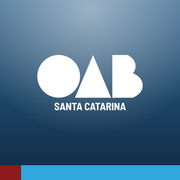
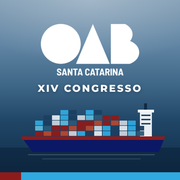
Página Instale o app com QR para o telão e ícone novo do atalho
Claude-Session: https://claude.ai/code/session_01RsrySNkNVJhAU6CzLJX23n

diff --git a/src/app/instalar/page.tsx b/src/app/instalar/page.tsx
@@ -1,29 +1,92 @@
 import Image from "next/image";
-import { Assinatura, Voltar } from "@/components/Marca";
+import QRCode from "qrcode";
+import { Assinatura, MzenTopo, Voltar } from "@/components/Marca";
 import { Instalar } from "./Instalar";
 
 export const metadata = { title: "Instale no celular · XIV Congresso OAB" };
 
-export default function InstalarPage() {
+const SITE = process.env.NEXT_PUBLIC_SITE_URL ?? "https://hub-oab.vercel.app";
+
+const VANTAGENS = [
+  { icone: "⏱", titulo: "Cada painel em 1 minuto", texto: "Resumo com as principais ideias, no mesmo dia." },
+  { icone: "🎬", titulo: "Cortes em vídeo", texto: "Os melhores momentos, prontos para assistir e compartilhar." },
+  { icone: "📸", titulo: "Suas fotos", texto: "Ache as fotos em que você aparece com uma selfie." },
+  { icone: "🔒", titulo: "Leve e seguro", texto: "Sem loja, sem cadastro e quase sem ocupar espaço." },
+];
+
+export default async function InstalarPage() {
+  const endereco = `${SITE}/instalar`;
+  const qr = await QRCode.toString(endereco, { type: "svg", margin: 1, color: { dark: "#0f2a44", light: "#ffffff" } });
+
   return (
     <main>
-      <header className="ceu-mar px-4 pt-6 pb-36 md:pb-10">
-        <div className="mx-auto max-w-xl">
+      <header className="ceu-mar px-4 pt-6 pb-10">
+        <div className="relative mx-auto max-w-5xl">
+          <MzenTopo />
           <Voltar />
           <div className="mt-5">
             <Assinatura />
           </div>
-          <div className="mt-8 flex items-center gap-4">
-            <Image src="/icone-192.png" alt="" width={72} height={72} className="rounded-2xl shadow-lg" />
+          <div className="mt-8 flex items-center gap-4 sm:gap-6">
+            <Image
+              src="/icone-512.png"
+              alt="Ícone do app"
+              width={96}
+              height={96}
+              className="h-20 w-20 rounded-[22%] shadow-xl sm:h-24 sm:w-24"
+              priority
+            />
             <div>
-              <h1 className="text-2xl leading-tight font-extrabold text-navy">Leve o congresso no celular</h1>
-              <p className="text-sm font-semibold text-navy/80">Sem loja, sem cadastro, em 30 segundos.</p>
+              <p className="text-xs font-extrabold tracking-[0.2em] text-wine uppercase">App do congresso</p>
+              <h1 className="text-2xl leading-tight font-extrabold text-navy sm:text-4xl">Leve o congresso no celular</h1>
+              <p className="mt-1 text-sm font-semibold text-navy/80 sm:text-base">
+                Sem loja, sem cadastro, em 30 segundos.
+              </p>
             </div>
           </div>
         </div>
       </header>
-      <div className="mx-auto max-w-xl px-4 py-8">
-        <Instalar />
+
+      <div className="mx-auto grid max-w-5xl gap-8 px-4 py-8 md:grid-cols-[1fr_300px]">
+        <div className="space-y-8">
+          <section>
+            <h2 className="text-sm font-extrabold tracking-[0.15em] text-navy uppercase">O que tem no app</h2>
+            <ul className="mt-4 grid gap-3 sm:grid-cols-2">
+              {VANTAGENS.map((v) => (
+                <li key={v.titulo} className="flex gap-3 rounded-2xl border border-line bg-card p-4">
+                  <span className="text-2xl leading-none">{v.icone}</span>
+                  <span>
+                    <strong className="block text-navy">{v.titulo}</strong>
+                    <span className="text-sm text-muted">{v.texto}</span>
+                  </span>
+                </li>
+              ))}
+            </ul>
+          </section>
+
+          <section>
+            <h2 className="text-sm font-extrabold tracking-[0.15em] text-navy uppercase">Como instalar</h2>
+            <div className="mt-4">
+              <Instalar />
+            </div>
+          </section>
+        </div>
+
+        {/* Para quem abre no computador ou vê a página no telão: aponta a câmera e abre no celular. */}
+        <aside className="hidden md:block">
+          <div className="sticky top-6 rounded-3xl bg-navy p-6 text-center text-white shadow-xl">
+            <p className="text-lg leading-tight font-extrabold">Aponte a câmera do celular</p>
+            <div
+              className="mx-auto mt-4 w-full rounded-2xl bg-white p-3 [&_svg]:h-auto [&_svg]:w-full"
+              dangerouslySetInnerHTML={{ __html: qr }}
+            />
+            <p className="mt-4 text-sm font-semibold text-sky">{endereco.replace("https://", "")}</p>
+            <div className="mt-4 flex h-1.5 overflow-hidden rounded-full">
+              <span className="w-1/6 bg-wine" />
+              <span className="flex-1 bg-sky" />
+            </div>
+          </div>
+        </aside>
       </div>
     </main>
   );

diff --git a/src/app/instalar/Instalar.tsx b/src/app/instalar/Instalar.tsx
@@ -16,6 +16,7 @@ export function Instalar() {
   const [aparelho, setAparelho] = useState<Aparelho | null>(null);
   const [instalado, setInstalado] = useState(false);
   const [prompt, setPrompt] = useState<PromptEvent | null>(null);
+  const [escolha, setEscolha] = useState<"iphone" | "android" | null>(null);
 
   useEffect(() => {
     // eslint-disable-next-line react-hooks/set-state-in-effect -- só dá para ler o aparelho no navegador
@@ -38,8 +39,10 @@ export function Instalar() {
     );
   }
 
+  const aba = escolha ?? (aparelho === "android" ? "android" : "iphone");
+
   return (
-    <div className="space-y-6">
+    <div className="space-y-4">
       {prompt && (
         <button
           onClick={async () => {
@@ -52,20 +55,34 @@ export function Instalar() {
         </button>
       )}
 
-      {(aparelho === "iphone" || aparelho === "outro") && (
+      <div className="grid grid-cols-2 gap-1 rounded-2xl bg-navy/10 p-1" role="tablist">
+        {(["iphone", "android"] as const).map((a) => (
+          <button
+            key={a}
+            role="tab"
+            aria-selected={aba === a}
+            onClick={() => setEscolha(a)}
+            className={`rounded-xl py-2.5 text-sm font-extrabold transition ${
+              aba === a ? "bg-navy text-white shadow" : "text-navy/70"
+            }`}
+          >
+            {a === "iphone" ? "📱 iPhone" : "🤖 Android"}
+          </button>
+        ))}
+      </div>
+
+      {aba === "iphone" ? (
         <Passos
           titulo="No iPhone (Safari)"
           passos={[
-            <>Abra este link no <strong>Safari</strong>, o navegador com ícone de bússola.</>,
+            <>Abra este link no <strong>Safari</strong>, o navegador com ícone de bússola 🧭.</>,
             <>Toque no botão <strong>Compartilhar</strong>, o quadrado com uma seta para cima ⬆, na barra de baixo.</>,
             <>Role a lista e toque em <strong>Adicionar à Tela de Início</strong> ➕.</>,
             <>Toque em <strong>Adicionar</strong>, no canto de cima.</>,
             <>Pronto! O ícone <strong>Congresso OAB</strong> aparece na sua tela inicial.</>,
           ]}
         />
-      )}
-
-      {(aparelho === "android" || aparelho === "outro") && (
+      ) : (
         <Passos
           titulo="No Android (Chrome)"
           passos={[
@@ -73,7 +90,7 @@ export function Instalar() {
             <>Se aparecer o botão azul <strong>Instalar agora</strong> acima, toque nele e confirme.</>,
             <>Se não aparecer, toque nos <strong>três pontinhos ⋮</strong>, no canto de cima.</>,
             <>Toque em <strong>Adicionar à tela inicial</strong> ou <strong>Instalar app</strong>.</>,
-            <>Confirme em <strong>Instalar</strong>. O ícone aparece na sua tela inicial.</>,
+            <>Confirme em <strong>Instalar</strong>. O ícone <strong>Congresso OAB</strong> aparece na sua tela inicial.</>,
           ]}
         />
       )}
@@ -88,7 +105,7 @@ function Caixa({ children }: { children: React.ReactNode }) {
 function Passos({ titulo, passos }: { titulo: string; passos: React.ReactNode[] }) {
   return (
     <section className="rounded-2xl border border-line bg-card p-5">
-      <h2 className="text-sm font-extrabold tracking-[0.15em] text-navy uppercase">{titulo}</h2>
+      <h3 className="text-xs font-extrabold tracking-[0.15em] text-muted uppercase">{titulo}</h3>
       <ol className="mt-4 space-y-4">
         {passos.map((p, i) => (
           <li key={i} className="flex gap-3">

diff --git a/src/app/manifest.ts b/src/app/manifest.ts
@@ -14,7 +14,7 @@ export default function manifest(): MetadataRoute.Manifest {
     icons: [
       { src: "/icone-192.png", sizes: "192x192", type: "image/png", purpose: "any" },
       { src: "/icone-512.png", sizes: "512x512", type: "image/png", purpose: "any" },
-      { src: "/icone-512.png", sizes: "512x512", type: "image/png", purpose: "maskable" },
+      { src: "/icone-mascara-512.png", sizes: "512x512", type: "image/png", purpose: "maskable" },
     ],
   };
 }

diff --git a/src/app/privacidade/page.tsx b/src/app/privacidade/page.tsx
@@ -8,7 +8,7 @@ const CONTATO_PRIVACIDADE = "o canal de privacidade da OAB/SC (contato a confirm
 export default function Privacidade() {
   return (
     <main>
-      <header className="ceu-mar px-4 pt-6 pb-36 md:pb-10">
+      <header className="ceu-mar px-4 pt-6 pb-10">
         <div className="mx-auto max-w-2xl">
           <Voltar />
           <div className="mt-5">
